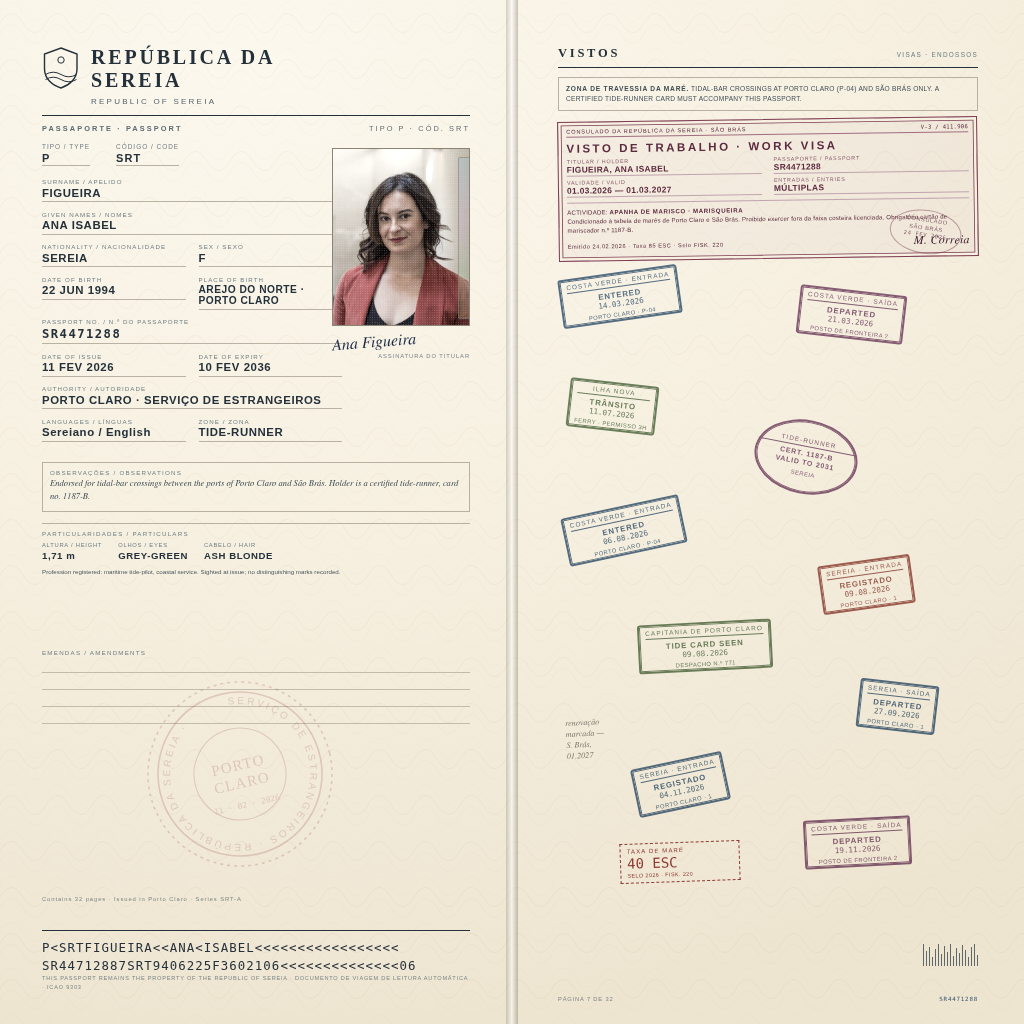
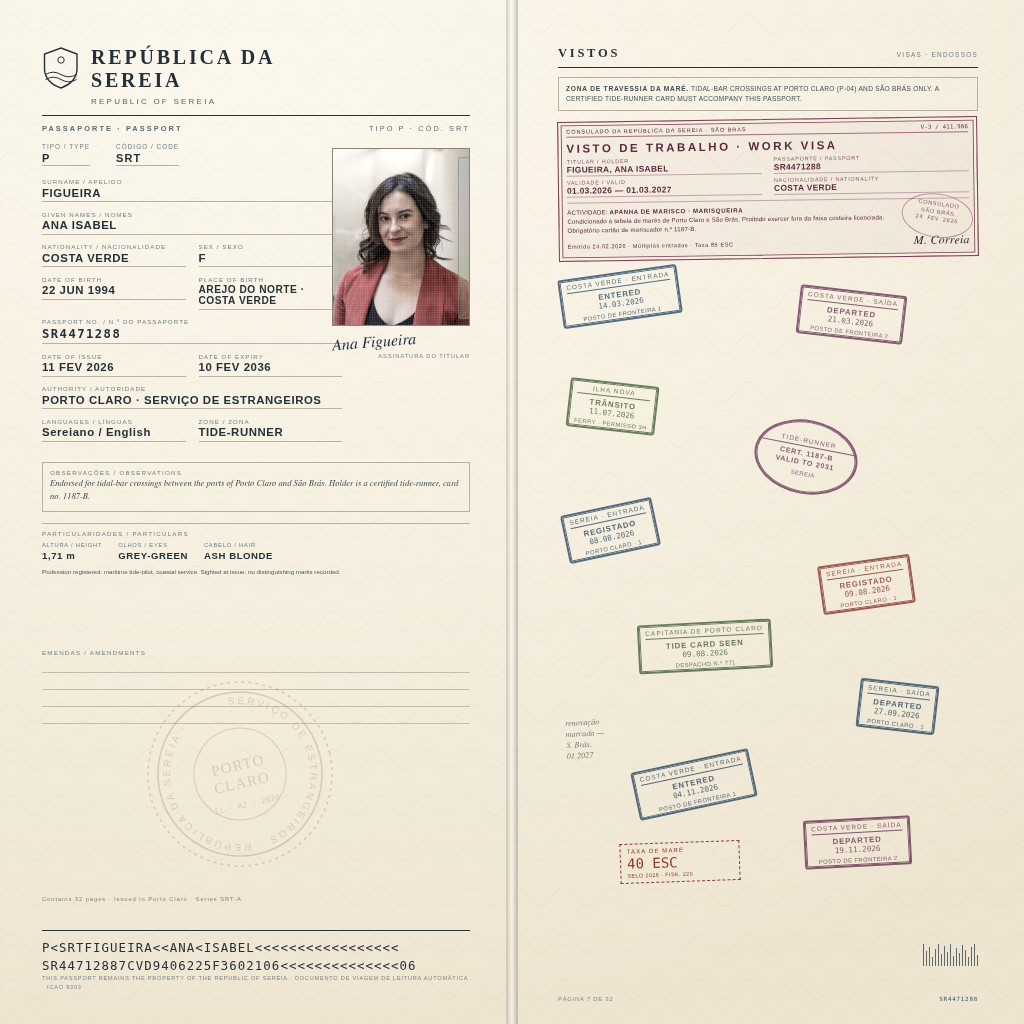
Tighten document agreement: Costa Verde nationality, matched MRZ, paired stamp chain, visa cancel

diff --git a/design/page.html b/design/page.html
@@ -92,11 +92,11 @@
   .vgrid { display: grid; grid-template-columns: 1fr 1fr; gap: 3px 12px }
   .vgrid span { color: #8a5b6c; font-size: 5.4px; letter-spacing: .15em }
   .vgrid b { display: block; color: #5d2b40; font-size: 8.4px; letter-spacing: .04em; border-bottom: .5px solid #c0a3ae; padding-bottom: 1px }
-  .vcond { margin-top: 5px; font-size: 6.1px; line-height: 1.5; letter-spacing: .03em; border-top: .5px solid #c0a3ae; padding-top: 4px }
+  .vcond { margin-top: 5px; font-size: 6.1px; line-height: 1.5; letter-spacing: .03em; border-top: .5px solid #c0a3ae; padding-top: 4px; padding-right: 52px }
   .vcond b { letter-spacing: .1em }
   .vfoot { display: flex; justify-content: space-between; align-items: baseline; margin-top: 5px; font-size: 5.6px; letter-spacing: .1em }
   .vsig { font-family: 'Nimbus Roman', serif; font-style: italic; font-size: 12px; letter-spacing: .02em; color: #3d2130 }
-  .vstamp { position: absolute; right: 16px; bottom: 2px; width: 72px; height: 44px; border: 1.6px solid rgba(125,58,82,.62);
+  .vstamp { position: absolute; right: 4px; top: 76px; width: 72px; height: 44px; border: 1.6px solid rgba(125,58,82,.62);
     border-radius: 50%; text-align: center; font-size: 5.6px; line-height: 1.35; letter-spacing: .12em; padding-top: 6px;
     transform: rotate(9deg); opacity: .75 }
   .vstamp span { font-family: 'DejaVu Sans Mono', monospace; font-size: 5.4px }
@@ -144,12 +144,12 @@
       <div class="f"><label>Surname / Apelido</label><div class="v">FIGUEIRA</div></div>
       <div class="f"><label>Given names / Nomes</label><div class="v">ANA ISABEL</div></div>
       <div class="two">
-        <div class="f"><label>Nationality / Nacionalidade</label><div class="v">SEREIA</div></div>
+        <div class="f"><label>Nationality / Nacionalidade</label><div class="v">COSTA VERDE</div></div>
         <div class="f"><label>Sex / Sexo</label><div class="v">F</div></div>
       </div>
       <div class="two">
         <div class="f"><label>Date of birth</label><div class="v">22 JUN 1994</div></div>
-        <div class="f"><label>Place of birth</label><div class="v" style="font-size:10.2px">AREJO DO NORTE · PORTO CLARO</div></div>
+        <div class="f"><label>Place of birth</label><div class="v" style="font-size:10.2px">AREJO DO NORTE · COSTA VERDE</div></div>
       </div>
       <div class="f"><label>Passport No. / N.º do passaporte</label><div class="v mono">SR4471288</div></div>
       <div class="two">
@@ -200,7 +200,7 @@
 
     <div class="note">Contains 32 pages · Issued in Porto Claro · Series SRT-A</div>
 
-    <div class="mrz">P&lt;SRTFIGUEIRA&lt;&lt;ANA&lt;ISABEL&lt;&lt;&lt;&lt;&lt;&lt;&lt;&lt;&lt;&lt;&lt;&lt;&lt;&lt;&lt;&lt;&lt;<br>SR44712887SRT9406225F3602106&lt;&lt;&lt;&lt;&lt;&lt;&lt;&lt;&lt;&lt;&lt;&lt;&lt;&lt;06</div>
+    <div class="mrz">P&lt;SRTFIGUEIRA&lt;&lt;ANA&lt;ISABEL&lt;&lt;&lt;&lt;&lt;&lt;&lt;&lt;&lt;&lt;&lt;&lt;&lt;&lt;&lt;&lt;&lt;<br>SR44712887CVD9406225F3602106&lt;&lt;&lt;&lt;&lt;&lt;&lt;&lt;&lt;&lt;&lt;&lt;&lt;&lt;06</div>
     <div class="mrzcap">THIS PASSPORT REMAINS THE PROPERTY OF THE REPUBLIC OF SEREIA · DOCUMENTO DE VIAGEM DE LEITURA AUTOMÁTICA · ICAO 9303</div>
   </div>
 
@@ -218,16 +218,16 @@
         <span>TITULAR / HOLDER<b>FIGUEIRA, ANA ISABEL</b></span>
         <span>PASSAPORTE / PASSPORT<b>SR4471288</b></span>
         <span>VALIDADE / VALID<b>01.03.2026 — 01.03.2027</b></span>
-        <span>ENTRADAS / ENTRIES<b>MÚLTIPLAS</b></span>
+        <span>NACIONALIDADE / NATIONALITY<b>COSTA VERDE</b></span>
       </div>
       <div class="vcond">ACTIVIDADE: <b>APANHA DE MARISCO · MARISQUEIRA</b><br>Condicionado à tabela de marés de Porto Claro e São Brás. Proibido exercer fora da faixa costeira licenciada. Obrigatório cartão de mariscador n.º 1187-B.</div>
-      <div class="vfoot"><span>Emitido 24.02.2026 · Taxa 85 ESC · Selo FISK. 220</span><span class="vsig">M. Correia</span></div>
+      <div class="vfoot"><span>Emitido 24.02.2026 · Múltiplas entradas · Taxa 85 ESC</span><span class="vsig">M. Correia</span></div>
       <div class="vstamp">CONSULADO<br>SÃO BRÁS<br><span>24 FEV 2026</span></div>
     </div>
 
     <div class="stamps">
       <div class="st r1" style="left:2px; top:2px; color:#2c4f74">
-        <div class="box"><div class="top">COSTA VERDE · ENTRADA</div><div class="mid">ENTERED</div><div class="date">14.03.2026</div><div class="bot">PORTO CLARO · P-04</div></div>
+        <div class="box"><div class="top">COSTA VERDE · ENTRADA</div><div class="mid">ENTERED</div><div class="date">14.03.2026</div><div class="bot">POSTO DE FRONTEIRA 1</div></div>
       </div>
       <div class="st r2" style="left:240px; top:20px; color:#6c3a64">
         <div class="box"><div class="top">COSTA VERDE · SAÍDA</div><div class="mid">DEPARTED</div><div class="date">21.03.2026</div><div class="bot">POSTO DE FRONTEIRA 2</div></div>
@@ -239,7 +239,7 @@
         <div class="oval"><div class="top">TIDE-RUNNER</div><div class="mid">CERT. 1187-B<br>VALID TO 2031</div><div class="bot">SEREIA</div></div>
       </div>
       <div class="st r5" style="left:6px; top:236px; color:#2c4f74">
-        <div class="box"><div class="top">COSTA VERDE · ENTRADA</div><div class="mid">ENTERED</div><div class="date">06.08.2026</div><div class="bot">PORTO CLARO · P-04</div></div>
+        <div class="box"><div class="top">SEREIA · ENTRADA</div><div class="mid">REGISTADO</div><div class="date">08.08.2026</div><div class="bot">PORTO CLARO · 1</div></div>
       </div>
       <div class="st r1" style="left:262px; top:290px; color:#8d3b33">
         <div class="box"><div class="top">SEREIA · ENTRADA</div><div class="mid">REGISTADO</div><div class="date">09.08.2026</div><div class="bot">PORTO CLARO · 1</div></div>
@@ -257,7 +257,7 @@
         <div class="n">SELO 2026 · FISK. 220</div>
       </div>
       <div class="st r5" style="left:76px; top:490px; color:#2c4f74">
-        <div class="box"><div class="top">SEREIA · ENTRADA</div><div class="mid">REGISTADO</div><div class="date">04.11.2026</div><div class="bot">PORTO CLARO · 1</div></div>
+        <div class="box"><div class="top">COSTA VERDE · ENTRADA</div><div class="mid">ENTERED</div><div class="date">04.11.2026</div><div class="bot">POSTO DE FRONTEIRA 1</div></div>
       </div>
       <div class="st r3" style="left:246px; top:548px; color:#6c3a64">
         <div class="box"><div class="top">COSTA VERDE · SAÍDA</div><div class="mid">DEPARTED</div><div class="date">19.11.2026</div><div class="bot">POSTO DE FRONTEIRA 2</div></div>
